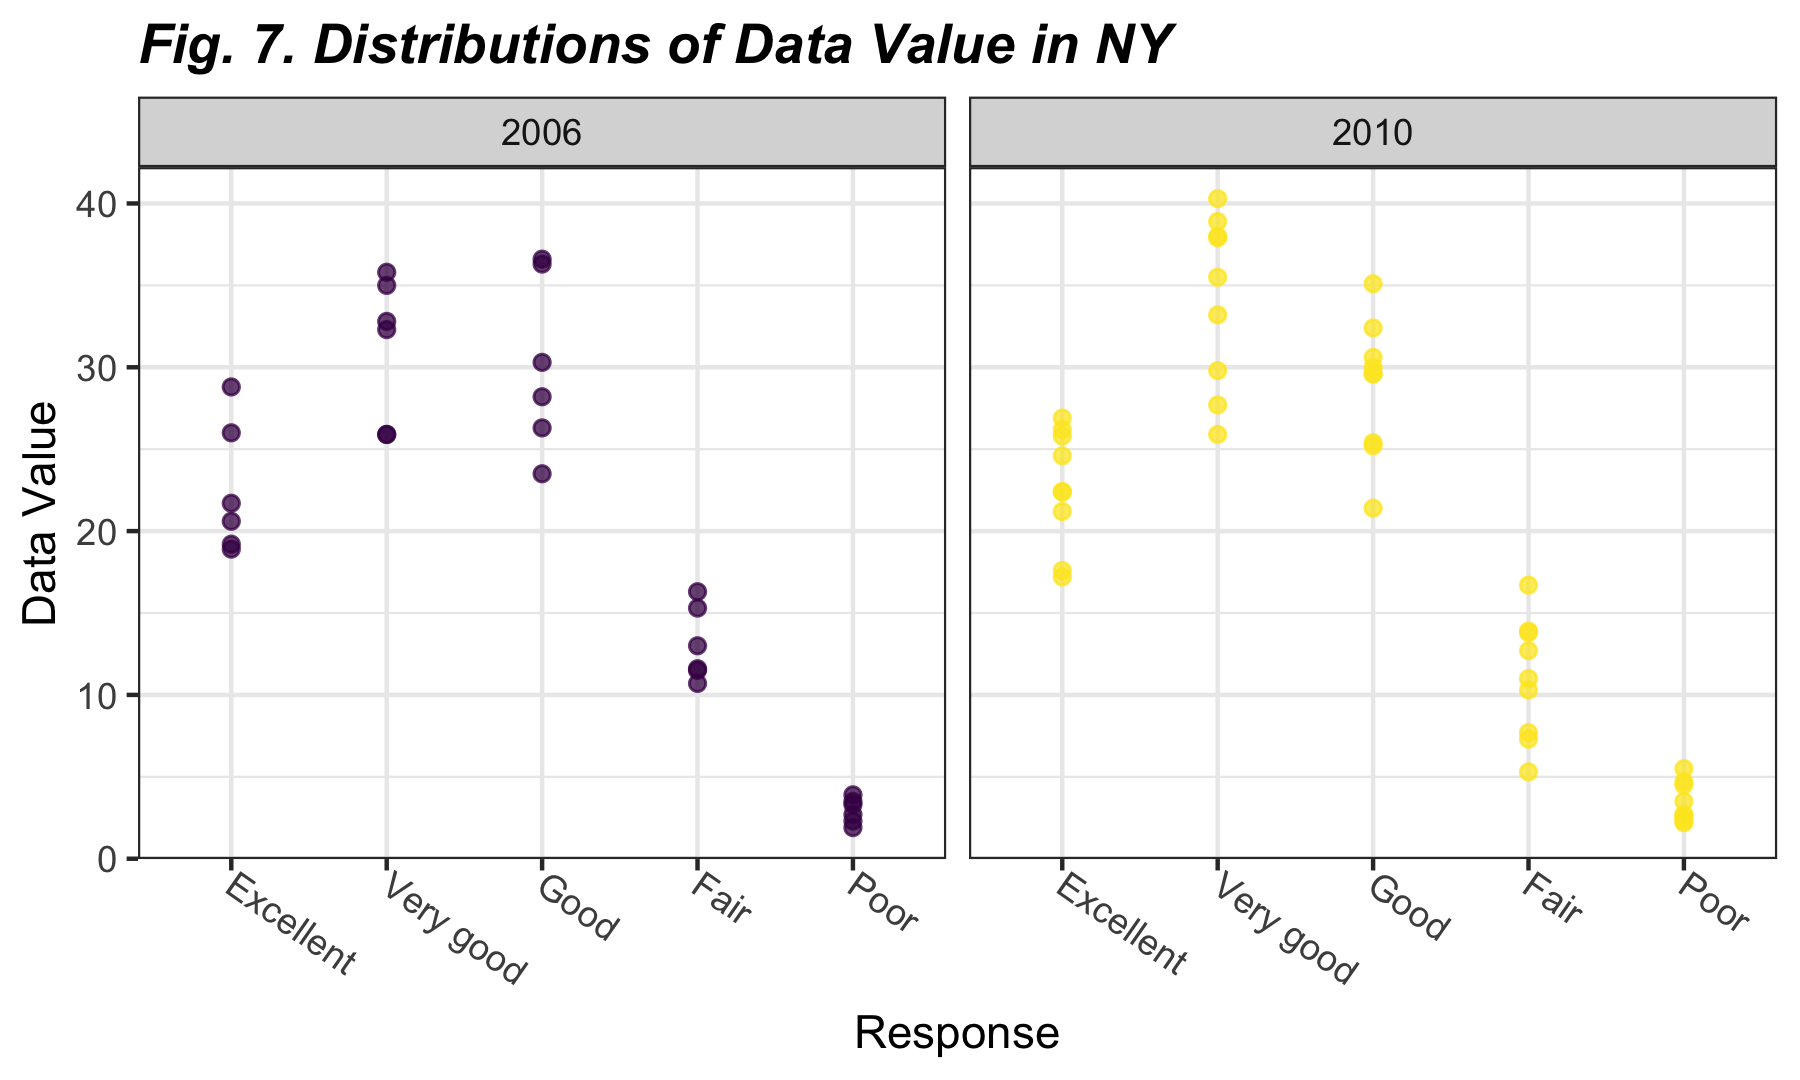
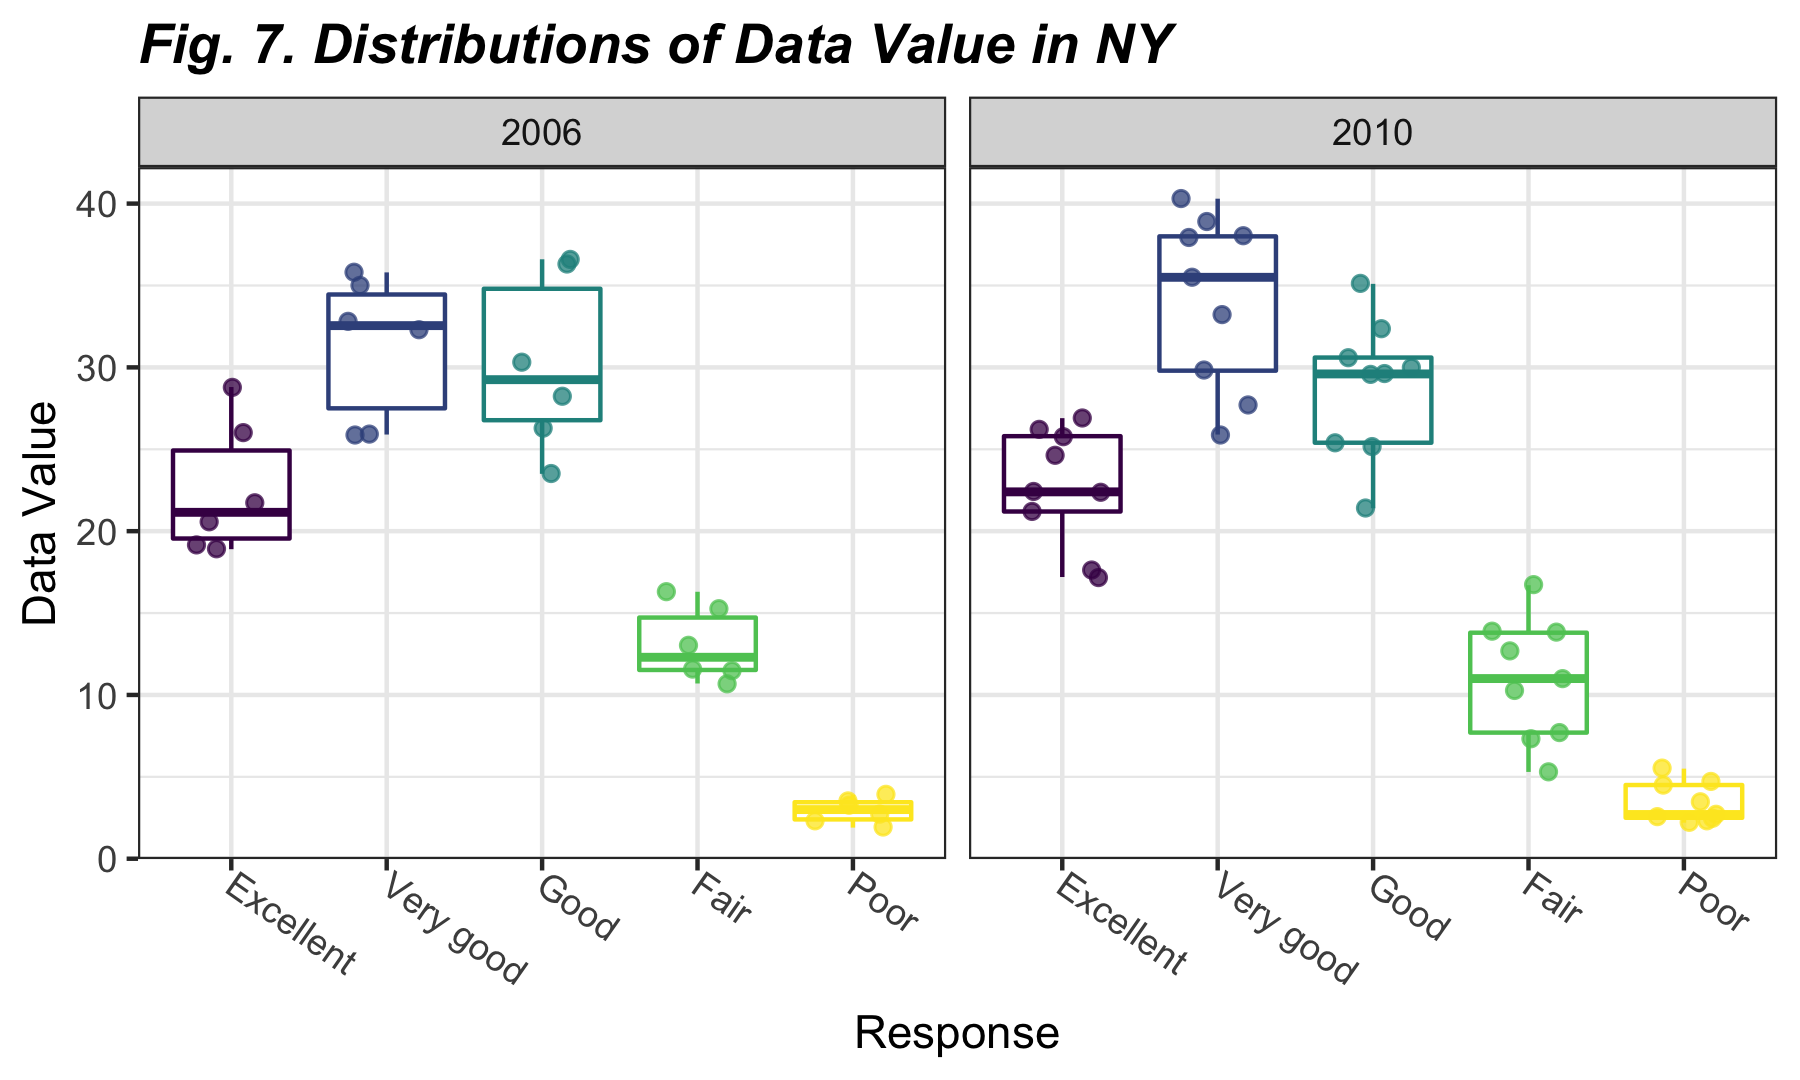
changing plot to boxplot for clarity, some cleaning of syntax

diff --git a/p8105_hw3_jys2137.md b/p8105_hw3_jys2137.md
@@ -145,8 +145,8 @@ was ordered.
 ``` r
 pop_item =
   instacart_df %>% 
-  filter(aisle %in% c("baking ingredients", "dog food care", "packaged vegetables 
-                      fruits")) %>%
+  filter(aisle %in% c("baking ingredients", "dog food care", 
+                      "packaged vegetables fruits")) %>%
   group_by(aisle) %>% 
   count(product_name) %>%
   mutate(rank = rank(desc(n))) %>% 
@@ -159,17 +159,16 @@ pop_item =
     values_from = product_name_count)
 
 knitr::kable(pop_item,
-             format = "pipe", 
              caption = "_**Fig. 3. Top 3 Items Ordered by Aisle**_", 
              col.names = str_to_title(names(pop_item)),
              align = "clll")
 ```
 
-| Rank | Baking Ingredients                    | Dog Food Care                                                    |
-|:----:|:--------------------------------------|:-----------------------------------------------------------------|
-|  1   | Light Brown Sugar - ordered 499 times | Snack Sticks Chicken & Rice Recipe Dog Treats - ordered 30 times |
-|  2   | Pure Baking Soda - ordered 387 times  | Organix Chicken & Brown Rice Recipe - ordered 28 times           |
-|  3   | Cane Sugar - ordered 336 times        | Small Dog Biscuits - ordered 26 times                            |
+| Rank | Baking Ingredients                    | Dog Food Care                                                    | Packaged Vegetables Fruits                |
+|:----:|:--------------------------------------|:-----------------------------------------------------------------|:------------------------------------------|
+|  1   | Light Brown Sugar - ordered 499 times | Snack Sticks Chicken & Rice Recipe Dog Treats - ordered 30 times | Organic Baby Spinach - ordered 9784 times |
+|  2   | Pure Baking Soda - ordered 387 times  | Organix Chicken & Brown Rice Recipe - ordered 28 times           | Organic Raspberries - ordered 5546 times  |
+|  3   | Cane Sugar - ordered 336 times        | Small Dog Biscuits - ordered 26 times                            | Organic Blueberries - ordered 4966 times  |
 
 ***Fig. 3. Top 3 Items Ordered by Aisle***
 
@@ -280,7 +279,7 @@ brfss_states =
 knitr::kable(brfss_states,
              col.names = c("State", "2002", "2010"),
              caption = "_**Fig. 5. States observed at 7 or more locations in 2002 
-             and 2010**_")
+                        and 2010**_")
 ```
 
 | State | 2002 | 2010 |
@@ -356,7 +355,9 @@ brfss_df %>%
   ggplot(aes(x = year, y = mean_data_value, group = state, color = state)) +
   geom_line() +
   scale_color_viridis_d() +
-  labs(x = "Year", y = "Mean Data Value", title = "Fig. 6. Mean Data Value by State") +
+  labs(x = "Year", 
+       y = "Mean Data Value", 
+       title = "Fig. 6. Mean Data Value by State") +
   theme(
     plot.title = element_text(face = "bold.italic"),
     legend.position = "right")
@@ -377,8 +378,9 @@ brfss_df %>%
   filter(
     year %in% c(2006, 2010), 
     state %in% c("NY")) %>% 
-  ggplot(aes(x = response, y = data_value, color = year)) +
-  geom_point(alpha = .75) +
+  ggplot(aes(x = response, y = data_value, color = response)) +
+  geom_boxplot() +
+  geom_jitter(width = 0.25, alpha = 0.75) +
   facet_grid(~year) +
   theme_bw() +
   theme(
@@ -513,7 +515,9 @@ accel_act_plot =
   scale_x_continuous(breaks = c(0, 360, 720, 1080, 1440),
                      labels = c("12am", "6am", "12pm", "6pm", "12am")) +
   scale_colour_discrete(name = "Day of Week") +
-  labs(x = "Time of Day", y = "Activity Count", title = "Fig. 9. Accelerometer Activity for Each Day of the Week") +
+  labs(x = "Time of Day", 
+       y = "Activity Count", 
+       title = "Fig. 9. Accelerometer Activity for Each Day of the Week") +
   theme(plot.title = element_text(face = "bold.italic"))
 
 accel_act_plot
